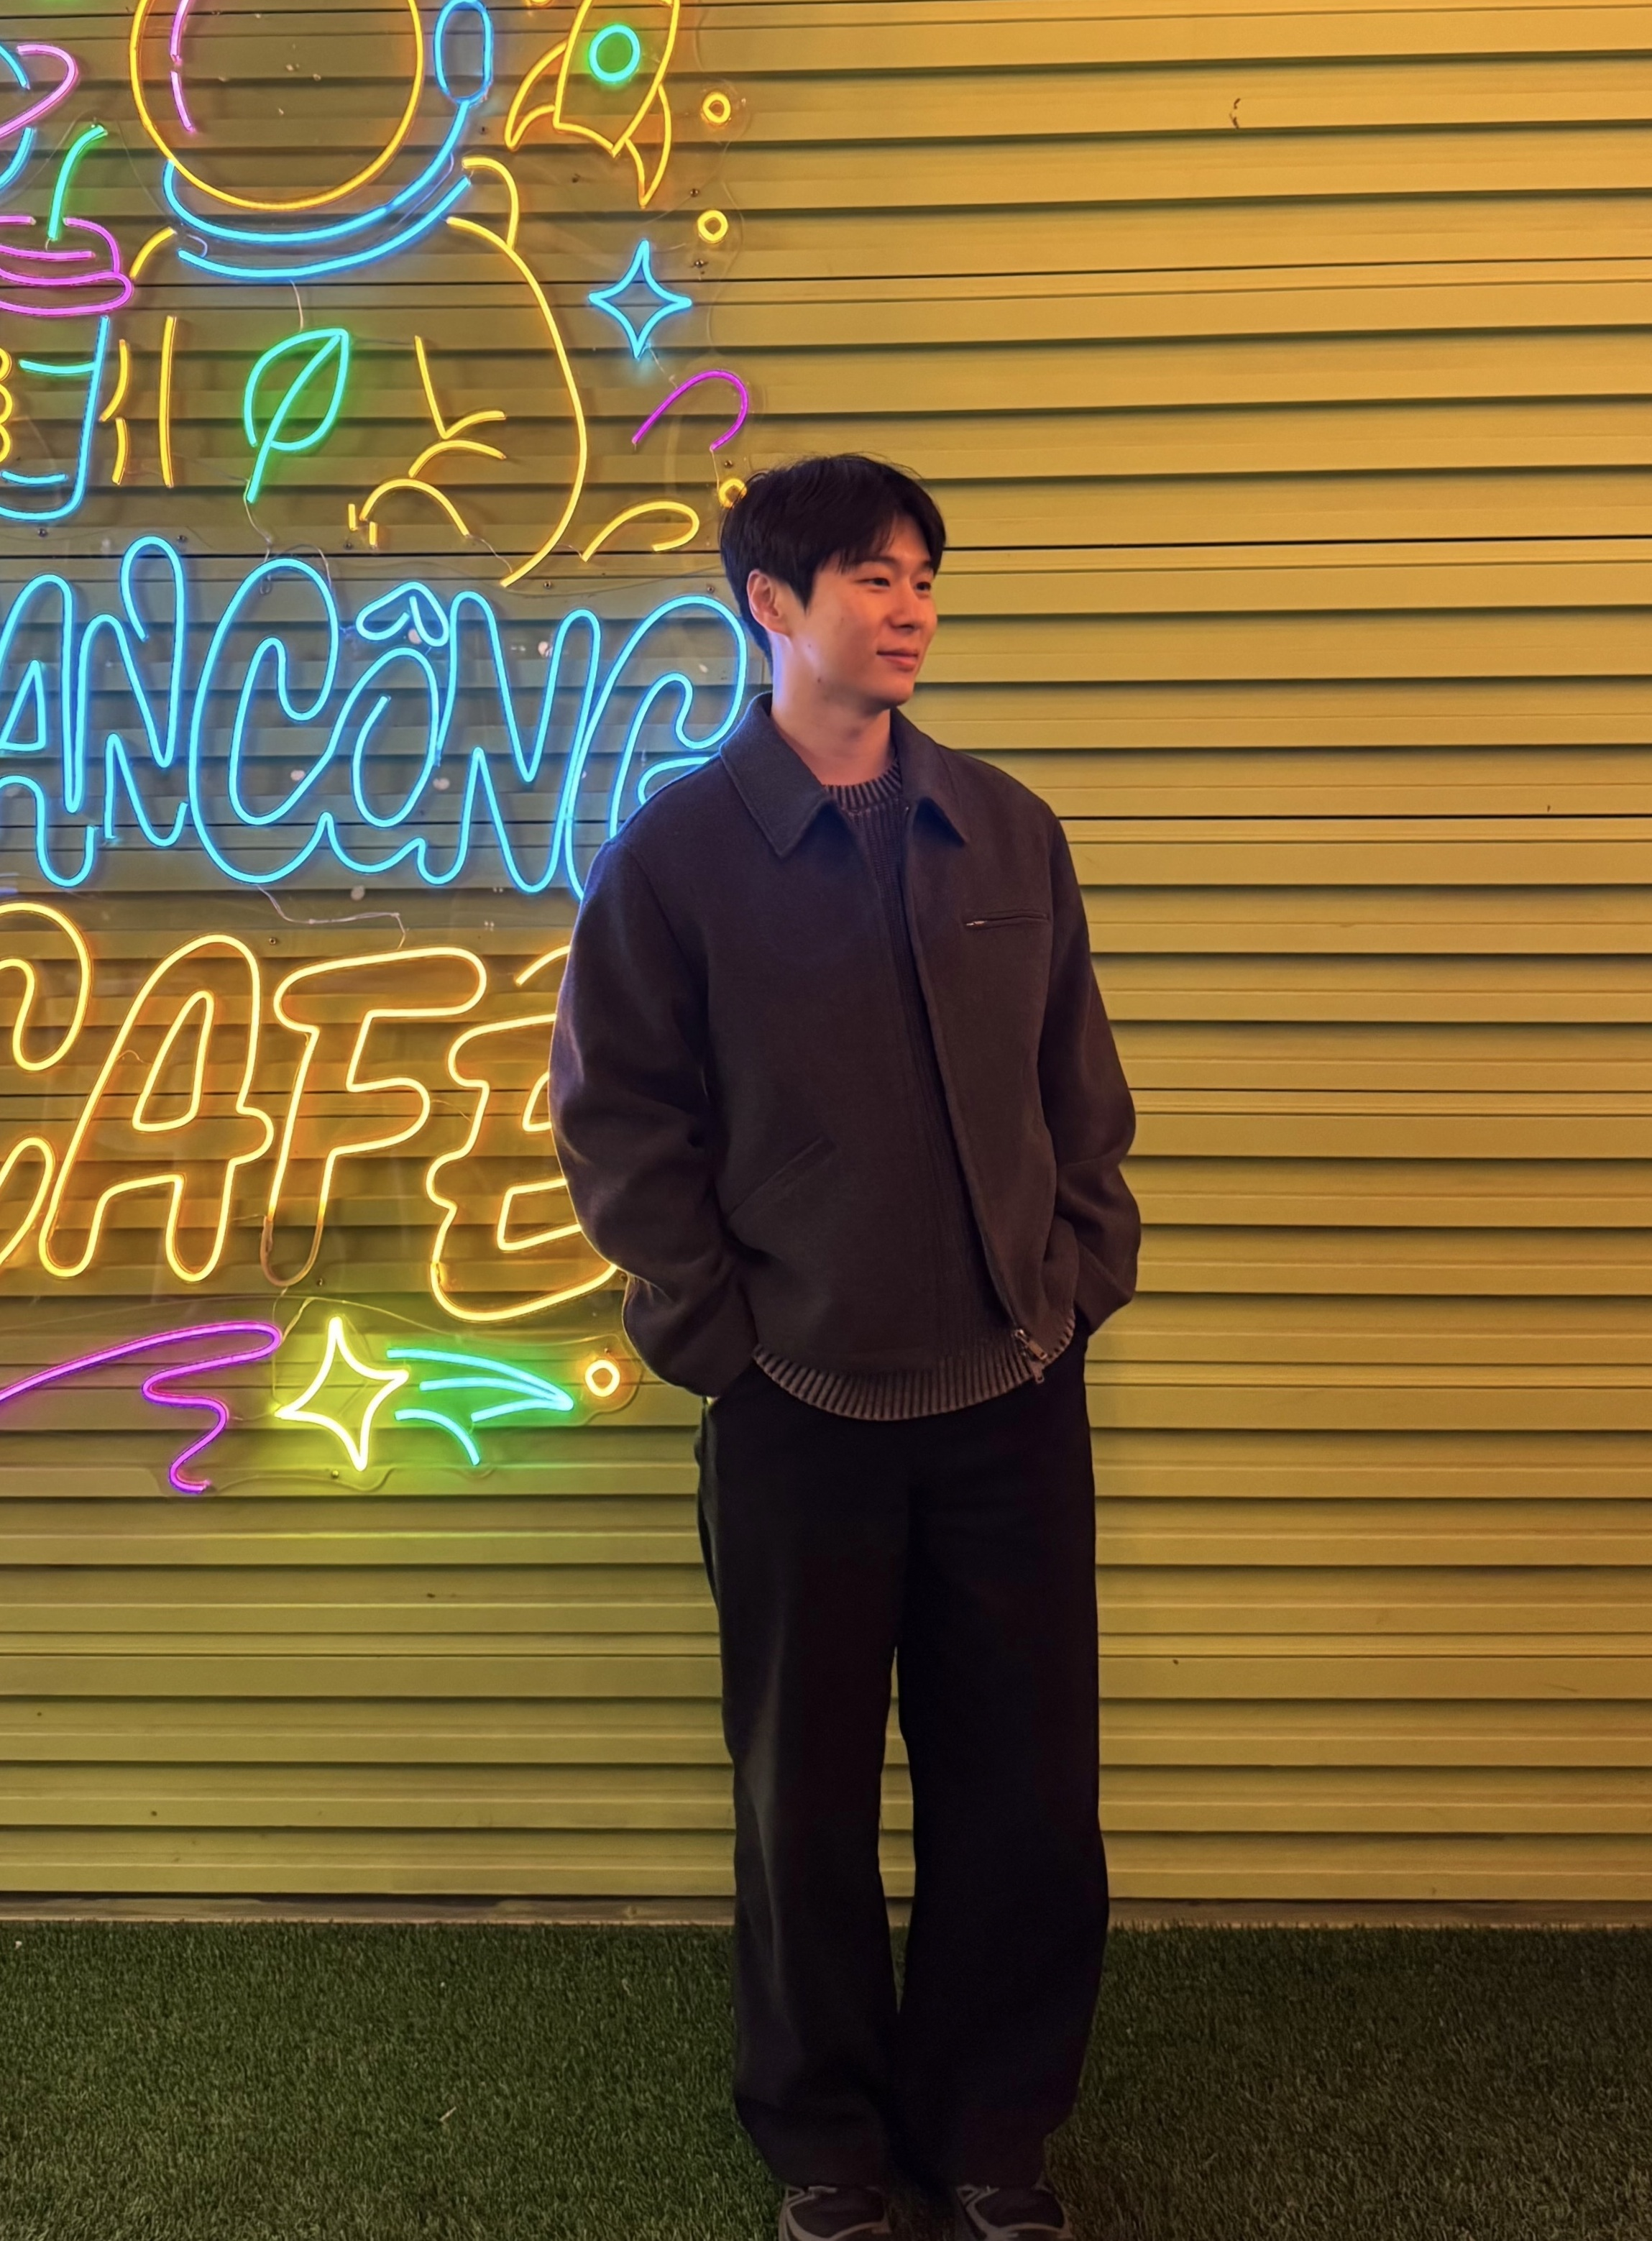
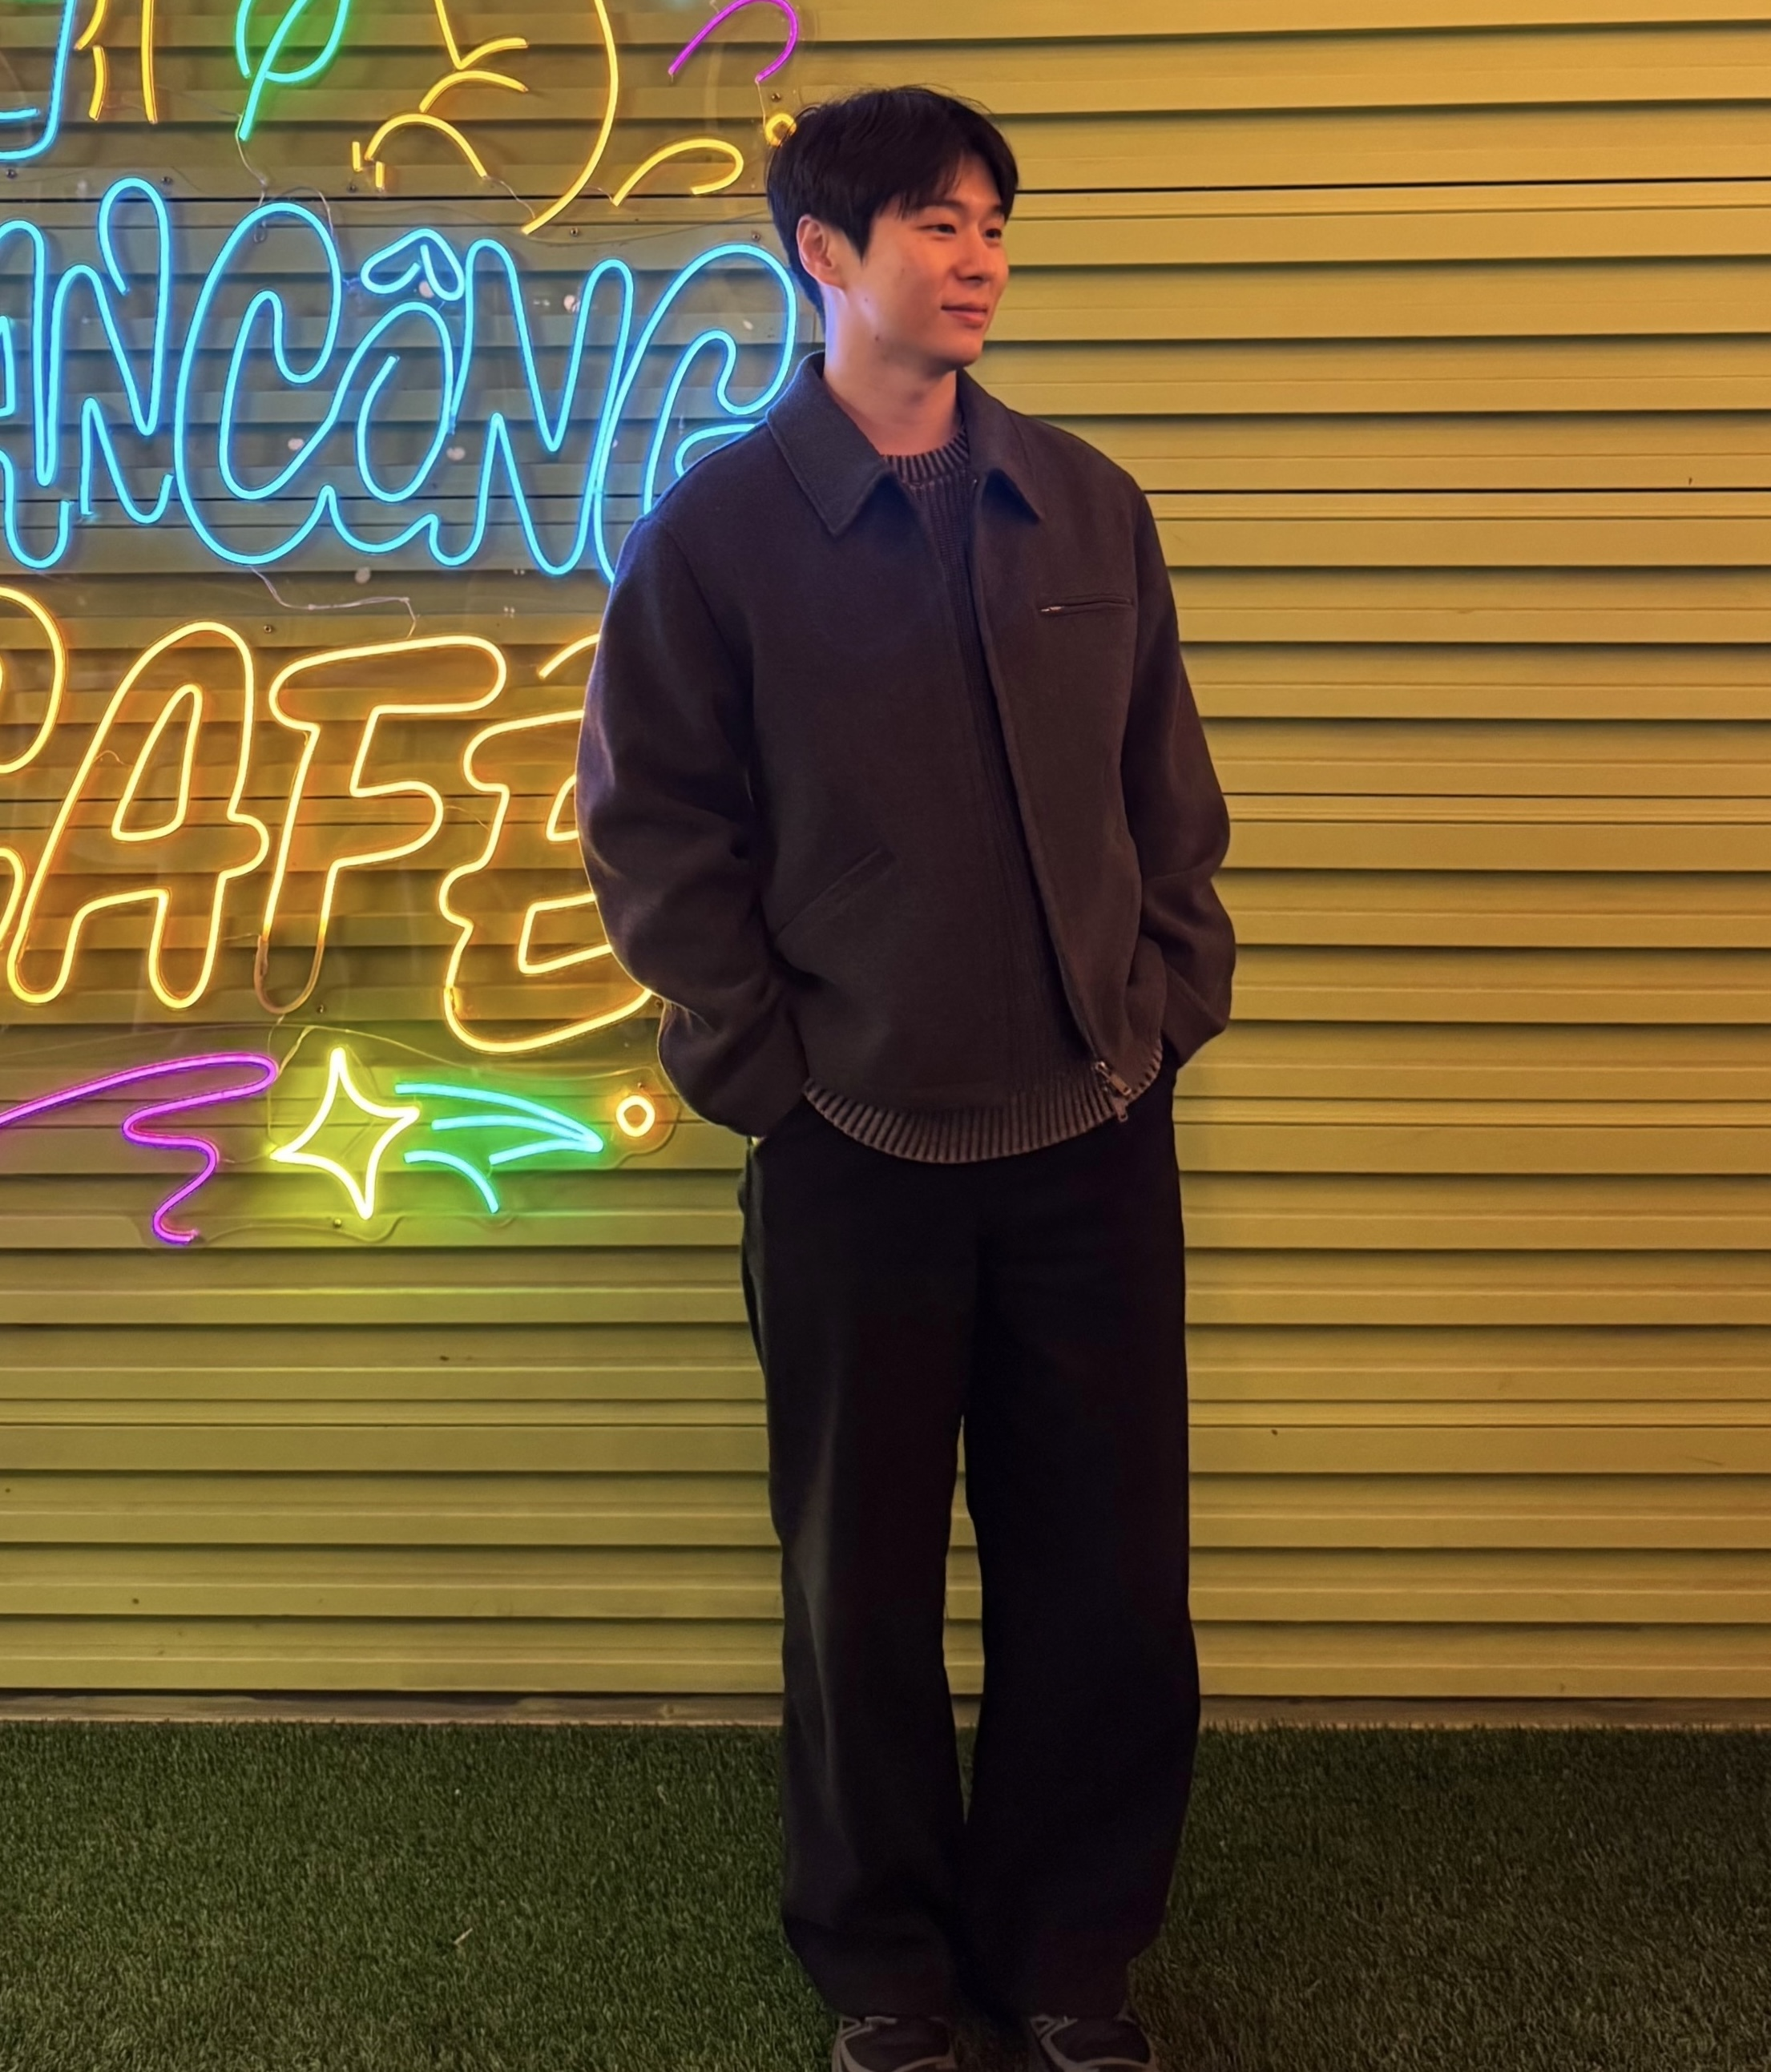
minor 2

diff --git a/assets/css/custom.css b/assets/css/custom.css
@@ -273,9 +273,15 @@ html:not(.dark) #project .project-card {
 
 
 
+/* Hide navbar brand text, keep only logo image */
+a.navbar-brand {
+  font-size: 0 !important;
+  letter-spacing: 0 !important;
+}
+
 /*
 타이틀 색깔 바꾸기
-#section-hero .hero-i { color: #1d5160; } 
-#section-hero .hero-s { color: #626c75; } 
-#section-hero .hero-l { color: #df4c39; } 
+#section-hero .hero-i { color: #1d5160; }
+#section-hero .hero-s { color: #626c75; }
+#section-hero .hero-l { color: #df4c39; }
 */

diff --git a/content/research/_index.md b/content/research/_index.md
@@ -10,7 +10,7 @@ sections:
   - block: markdown
     id: research
     content:
-      title: Research
+      title: ""
       text: |
         <section class="research-section">
           <h2 class="research-section-title">Our Mission</h2>